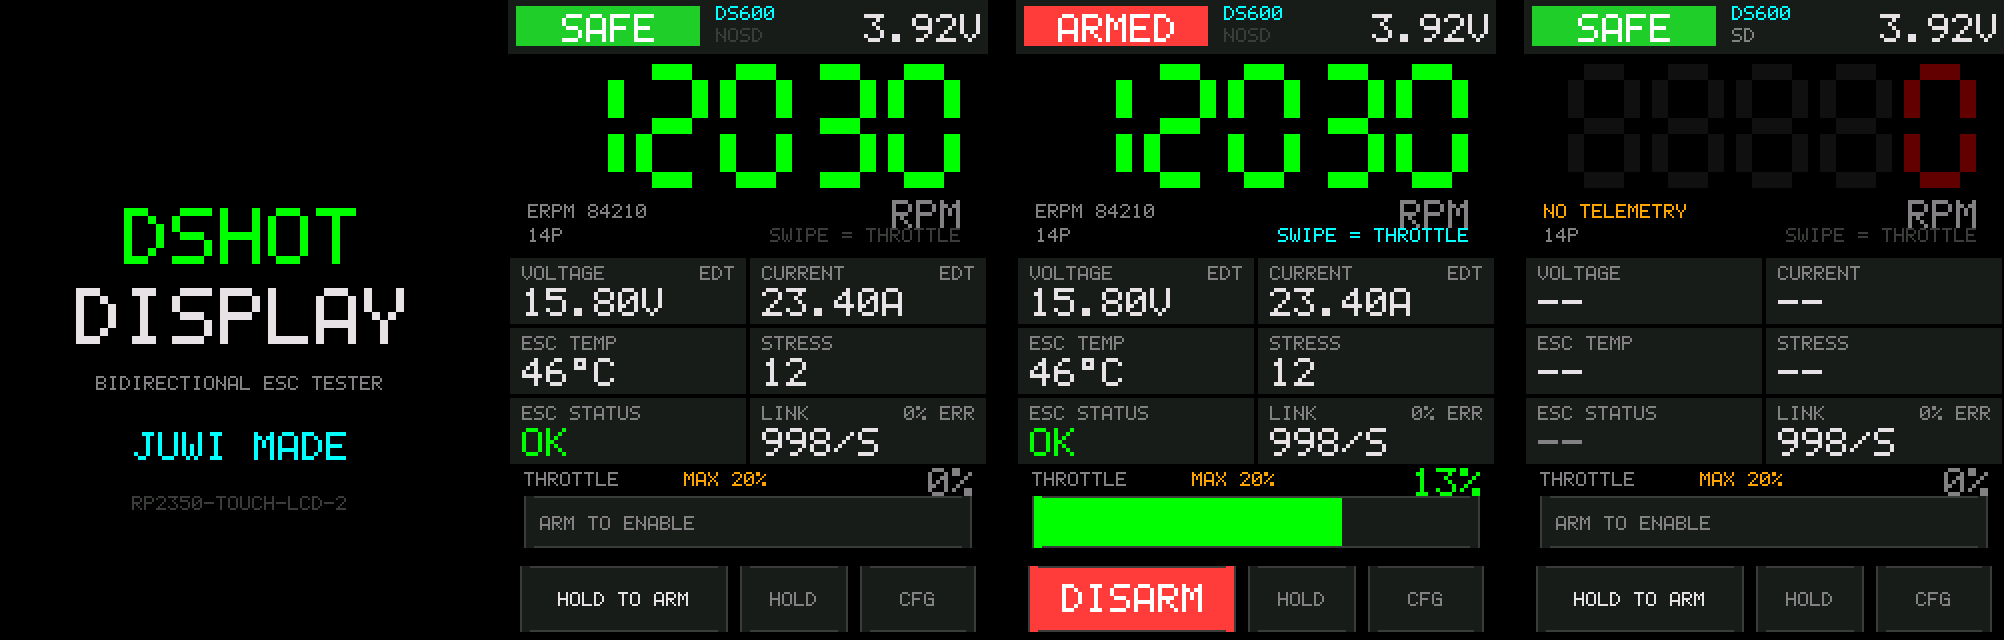
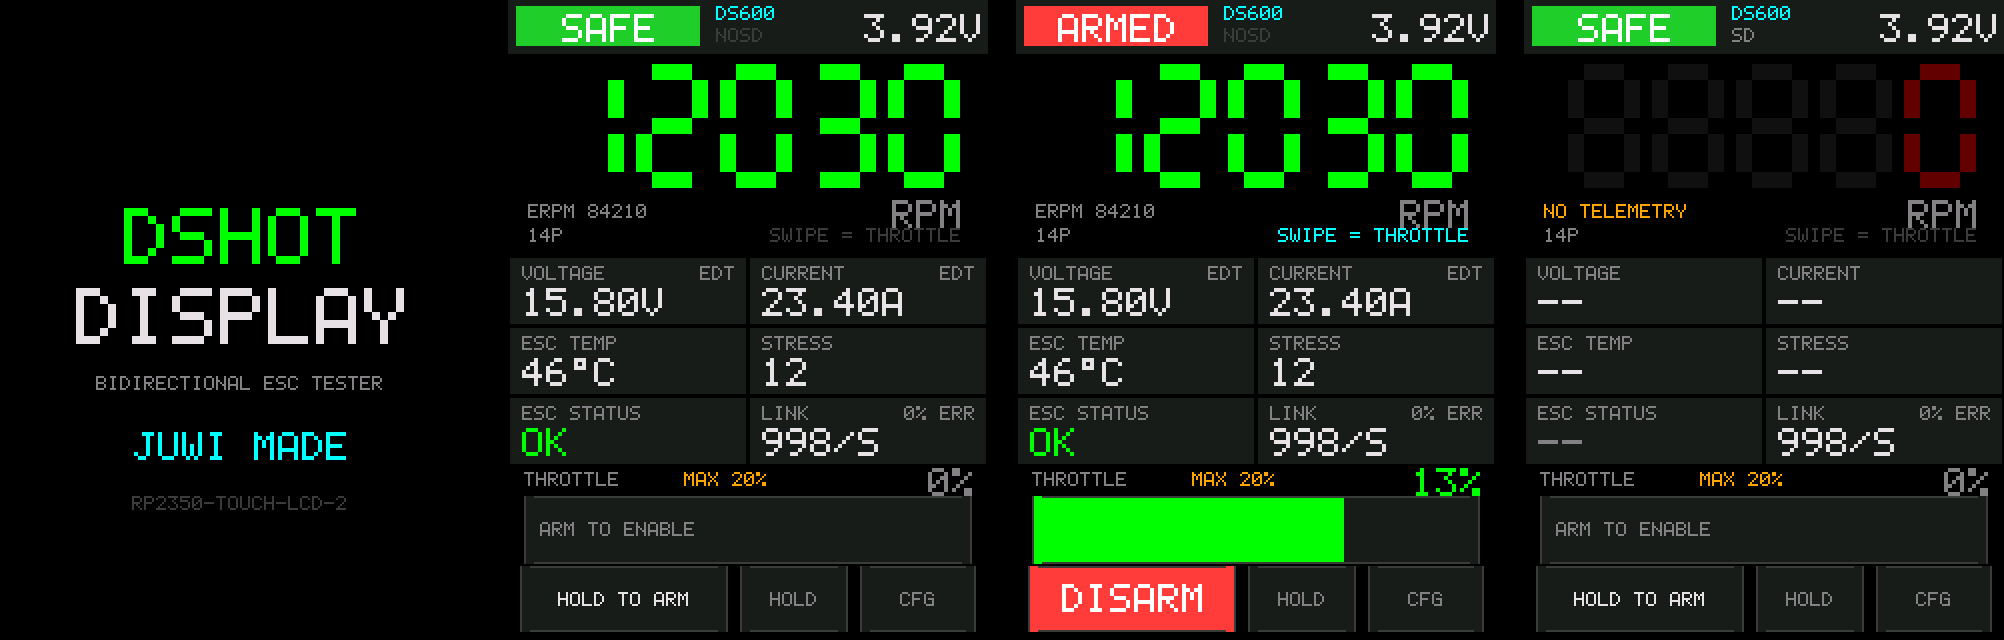
feat(ui): a taller throttle gauge, 26 px to 34
Asked for in #24, from someone running a powerful setup with the brake on: the
jolt when the slider is knocked back to zero by accident is real, and a bar
that is easy to fall off the bottom of is easy to disarm by accident too. A
taller bar is harder to miss in both directions.

The 8 px come from the padding above the button row, not from a neighbour's
content. The RPM digits and the telemetry tiles are untouched -- the report
offered the digits as the donor and they turned out not to be needed. The
buttons have not moved either: BTN_ROW_Y is still 283, and it is a name now
rather than three copies of the same literal, because the assert below needs to
be able to say it.

What it does cost is the grab slop under the bar, which drops from 8 px to 1.
Slop that reached into the button row would make the top of DISARM a throttle
surface -- issue #24's accident arriving by the other road -- so the two
numbers are tied together by a static_assert rather than by a comment and good
intentions. The HOLD handle stops overhanging the bottom for the same reason:
three more rows there would be drawn into the button band and wiped the next
time the buttons repainted.

The caption inside the bar is centred on the track height now instead of
sitting at a hand-picked offset that was only correct for 26 px.

docs/ui-preview.png and docs/contrast-preview.png are regenerated from the
suite. The other four are byte-identical, which is the check that this touched
[…]

Changed region(s): [[0.2475, 0.8125, 0.7425, 0.9062], [0.7735, 0.8125, 1.0, 0.9062]]

diff --git a/src/ui.cpp b/src/ui.cpp
@@ -54,8 +54,8 @@ static_assert(GFX_W == 240 && GFX_H == 320,
 #define Z_TELE_Y0     128
 #define Z_TELE_Y1     233
 #define Z_THR_Y0      234
-#define Z_THR_Y1      278
-#define Z_BTN_Y0      279
+#define Z_THR_Y1      281
+#define Z_BTN_Y0      282
 #define Z_BTN_Y1      319
 
 static_assert(Z_STATUS_Y0 == 0, "regions must start at the top of the panel");
@@ -68,8 +68,31 @@ static_assert(Z_BTN_Y1  == GFX_H - 1,       "regions must reach the bottom");
 #define THR_TRACK_X   8
 #define THR_TRACK_Y   248
 #define THR_TRACK_W   224
-#define THR_TRACK_H   26
-#define THR_TOUCH_PAD 8       // vertical grab slop around the track
+/**
+ * @brief Track height.
+ *
+ * 26 px until a report that a powerful setup with the brake on gets a real jolt
+ * when the slider is knocked back to zero, and that a taller bar is both harder
+ * to miss and harder to fall off the bottom of into DISARM.
+ *
+ * The 8 px came out of the padding above the button row -- the buttons are
+ * still at @ref BTN_ROW_Y, and the RPM digits and telemetry rows above are
+ * untouched. What it costs is the slop below the track: see
+ * @ref THR_TOUCH_PAD_BOT.
+ */
+#define THR_TRACK_H   34
+/**
+ * @brief Vertical grab slop above and below the track.
+ *
+ * Asymmetric, and it has to be. Slop is what lets a finger that lands just off
+ * the bar still drive it, but the bar now ends three pixels above the button
+ * row, and slop that reached into DISARM would make the top of that button
+ * drive the throttle instead of pressing it -- the exact accident issue #24 is
+ * about, arriving by the other road. The assert below is what keeps that true
+ * if either number moves again.
+ */
+#define THR_TOUCH_PAD_TOP 8
+#define THR_TOUCH_PAD_BOT 1
 
 /**
  * @brief Track columns at each end that count as the rail rather than as a
@@ -90,8 +113,14 @@ static_assert(Z_BTN_Y1  == GFX_H - 1,       "regions must reach the bottom");
  * that report was short by.
  */
 #define THR_EDGE_SAT  16
+/** @brief How far the HOLD-mode grab handle stands above the track. */
+#define THR_HANDLE_OVER 3
+static_assert(THR_TRACK_Y - THR_HANDLE_OVER >= Z_THR_Y0,
+              "the HOLD handle is drawn above the throttle band");
 #define THR_USABLE_W  (THR_TRACK_W - 2 * THR_EDGE_SAT)
 static_assert(THR_USABLE_W > 0, "the saturation margins have eaten the track");
+static_assert(THR_TRACK_Y + THR_TRACK_H - 1 <= Z_THR_Y1,
+              "the track overflows the throttle band");
 static_assert(THR_EDGE_SAT * 2 < THR_TRACK_W / 2,
               "saturating half the track would make it a two-position switch");
 
@@ -99,7 +128,7 @@ static_assert(THR_EDGE_SAT * 2 < THR_TRACK_W / 2,
 // from the top of the RPM readout down to where the gauge's grab area starts,
 // so the two regions abut exactly: no overlap, no dead strip between them.
 #define PAD_Y0        Z_RPM_Y0
-#define PAD_Y1        (THR_TRACK_Y - THR_TOUCH_PAD - 1)
+#define PAD_Y1        (THR_TRACK_Y - THR_TOUCH_PAD_TOP - 1)
 #define PAD_H         (PAD_Y1 - PAD_Y0 + 1)
 
 /** @} */
@@ -108,9 +137,19 @@ static_assert(THR_EDGE_SAT * 2 < THR_TRACK_W / 2,
 // nowhere to go back to, and a disabled or missing control in the place the
 // habit says to look is worse than the habit not applying here. CFG is its
 // navigation, and it sits with the other two actions.
-static const UiRect BTN_ARM  = { 6, 283, 104, 33 };
-static const UiRect BTN_HOLD = { 116, 283, 54, 33 };
-static const UiRect BTN_CFG  = { 176, 283, 58, 33 };
+#define BTN_ROW_Y     283   /**< Top of the three main-screen buttons. */
+#define BTN_ROW_H      33   /**< ...and their height. */
+static const UiRect BTN_ARM  = { 6, BTN_ROW_Y, 104, BTN_ROW_H };
+static const UiRect BTN_HOLD = { 116, BTN_ROW_Y, 54, BTN_ROW_H };
+static const UiRect BTN_CFG  = { 176, BTN_ROW_Y, 58, BTN_ROW_H };
+
+// The grab area may not reach the buttons. Written where both numbers are in
+// scope rather than as a comment on either one, because it is a relationship
+// between them and a comment is not checked.
+static_assert(THR_TRACK_Y + THR_TRACK_H + THR_TOUCH_PAD_BOT <= BTN_ROW_Y,
+              "the throttle grab area reaches into the button row");
+static_assert(BTN_ROW_Y + BTN_ROW_H - 1 <= Z_BTN_Y1,
+              "the buttons run off the bottom of the panel");
 
 // config screen
 /**
@@ -714,12 +753,18 @@ static void drawThrottle() {
 		int hx = THR_TRACK_X + fillW - 3;
 		if (hx < THR_TRACK_X) hx = THR_TRACK_X;
 		if (hx > THR_TRACK_X + THR_TRACK_W - 6) hx = THR_TRACK_X + THR_TRACK_W - 6;
-		gfxRect(hx, THR_TRACK_Y - 3, 6, THR_TRACK_H + 6, C_INK);
+		// Overhangs the top only. It used to overhang both ends by 3 px, which
+		// the taller track has no room for: the bar now ends on the last row of
+		// the band, and three more would be drawn into the button row and wiped
+		// the next time the buttons repainted.
+		gfxRect(hx, THR_TRACK_Y - THR_HANDLE_OVER, 6,
+		        THR_TRACK_H + THR_HANDLE_OVER, C_INK);
 	}
 
 	gfxRoundFrame(THR_TRACK_X, THR_TRACK_Y, THR_TRACK_W, THR_TRACK_H, 5, C_GRID);
 	if (!s_armed) {
-		gfxText(THR_TRACK_X + 8, THR_TRACK_Y + 10, "ARM TO ENABLE", C_DIM, 1);
+		gfxText(THR_TRACK_X + 8, THR_TRACK_Y + (THR_TRACK_H - 7) / 2,
+		        "ARM TO ENABLE", C_DIM, 1);
 	}
 }
 
@@ -1170,8 +1215,8 @@ static void handleMainTouch() {
 	int x = s_touch.x, y = s_touch.y;
 
 	// --- throttle slider ---
-	bool inTrack = (y >= THR_TRACK_Y - THR_TOUCH_PAD) &&
-	               (y < THR_TRACK_Y + THR_TRACK_H + THR_TOUCH_PAD) &&
+	bool inTrack = (y >= THR_TRACK_Y - THR_TOUCH_PAD_TOP) &&
+	               (y < THR_TRACK_Y + THR_TRACK_H + THR_TOUCH_PAD_BOT) &&
 	               (x >= THR_TRACK_X - 8) && (x < THR_TRACK_X + THR_TRACK_W + 8);
 
 	bool inPad = (y >= PAD_Y0) && (y <= PAD_Y1);

diff --git a/test/test_ui.cpp b/test/test_ui.cpp
@@ -103,7 +103,7 @@ static void swipe(int x0, int x1, int y, int step) {
 #define CFG_MAXT_Y    156   // BTN_MAXT_*  y 134..177
 // --- the AM32/LOG/SETUP row: three 68 px buttons with 4 px gaps, from x=14 ---
 #define BTN_AM32_Y   282   // all three span y 258..305
-// --- throttle gauge: THR_TRACK_Y 248, height 26 ---
+// --- throttle gauge: THR_TRACK_Y 248, height 34, band ends at 281 ---
 #define THR_Y         260
 // ...and the horizontal extent, which the rail tests need to be explicit about.
 #define THR_TRACK_X_T   8
@@ -1177,6 +1177,40 @@ static void testThrottleRailsAreReachable() {
 }
 
 /**
+ * @brief The taller bar stops exactly where the button row starts.
+ *
+ * The gauge grew from 26 px to 34 by taking the padding above the buttons, and
+ * the grab slop below it had to shrink to 1 px to pay for that. Slop reaching
+ * into the button row would make the top of DISARM a throttle surface, which is
+ * the accident #24 asks for protection from arriving by the other road.
+ *
+ * Both halves matter: that the last row of the band still drives the bar, and
+ * that the first row below it does not.
+ */
+static void testThrottleBarStopsAtTheButtons() {
+	section("Throttle: the taller bar stops where the buttons start");
+
+	fakeFlashClear();
+	settingsLoad();
+	uiInit();
+	frames(4);
+	holdToArm();
+
+	// 282 is the last row of the throttle band.
+	fakePress(143, 282); frames(1);
+	fakeHold(143, 282);  frames(1);
+	checkTrue("the last row of the band still drives the bar", fakeThrottle() > 0);
+	fakeRelease(); frames(2);
+	checkInt("and it springs back", fakeThrottle(), 0);
+
+	// 283 is the first row of the button row, and belongs to it whole.
+	checkTrue("still armed", fakeArmed());
+	fakePress(BTN_ARM_X, 283); frames(2);
+	checkTrue("the row below it disarms instead of driving", !fakeArmed());
+	fakeRelease(); frames(2);
+}
+
+/**
  * @brief The throttle ceiling binds in relative mode, not just absolute.
  *
  * Deleting the upper clamp in relativeThrottle() outright used to pass: only
@@ -2010,6 +2044,7 @@ void runUiTests() {
 	testRailReAnchor();
 	testDisarmButton();
 	testThrottleRailsAreReachable();
+	testThrottleBarStopsAtTheButtons();
 	testCeilingBindsInRelativeMode();
 	testDisarmedThrottleBackstop();
 	testFrameAction();
